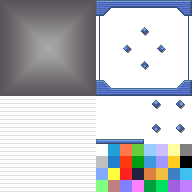
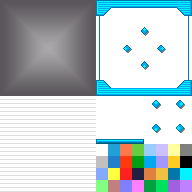
Added game main font. Restyled window theme. Closes #198

diff --git a/js/plugins.js b/js/plugins.js
@@ -8,7 +8,7 @@ var $plugins =
 {"name":"YEP_ClassChangeCore","status":false,"description":"v1.13 This plugin creates a system where your player\ncan change classes through the main menu.","parameters":{"---General---":"","Class Command":"Class","Auto Add Menu":"true","Show Command":"true","Enable Command":"true","Auto Place Command":"true","Default Icon":"78","Maintain Levels":"false","Unlocked Classes":"","---Command Window---":"","Class Change Command":"Class","Show Class Change":"true","Enable Class Change":"true","Show Skill Learn":"true","Finish Command":"Finish","Text Alignment":"center","---Window Settings---":"","Current Class Color":"17","Class Level Format":"LV%1","Class Level Font Size":"20"}},
 {"name":"YEP_X_Subclass","status":false,"description":"v1.10 (Requires YEP_ClassChangeCore.js) Allow your actors\nto subclass into a secondary class!","parameters":{"---Class Menu---":"","Subclass Command":"Subclass","Show Command":"true","Enable Command":"true","Name Format":"%1/%2","Subclass Color":"5","---Parameters---":"","MaxHP":"0.10","MaxMP":"0.10","ATK":"0.20","DEF":"0.20","MAT":"0.20","MDF":"0.20","AGI":"0.20","LUK":"0.20","EXP":"0.25","JP":"0.25","---Traits---":"","Skill Types":"true","Added Skills":"true","Param Rates":"true","X-Param Values":"false","S-Param Rates":"false","Element Rates":"false","Debuff Rates":"false","State Rates":"false","State Resist":"false","Attack Element":"false","Attack State":"false","Weapons":"false","Armors":"false"}},
 {"name":"YEP_ExtraParamFormula","status":true,"description":"v1.04 Control the formulas of the extra parameters for\nHIT, EVA, CRI, CEV, MEV, MRF, CNT, HRG, MRG, and TRG.","parameters":{"HIT Formula":"(base + plus) * rate + flat","EVA Formula":"(base + plus) * rate + flat","CRI Formula":"(base + plus) * rate + flat","CEV Formula":"(base + plus) * rate + flat","MEV Formula":"(base + plus) * rate + flat","MRF Formula":"(base + plus) * rate + flat","CNT Formula":"(base + plus) * rate + flat","HRG Formula":"(base + plus) * rate + flat","MRG Formula":"(base + plus) * rate + flat","TRG Formula":"(base + plus) * rate + flat"}},
-{"name":"YEP_LoadCustomFonts","status":true,"description":"v1.00 Load custom fonts from the /fonts/ folder. This will\nallow you to use custom fonts without installing them.","parameters":{"Font Filenames":"cc-wild-words.ttf, ds-pixel-cyr.ttf","Font Families":"CC Wild Words, DS Pixel Cyr"}},
+{"name":"YEP_LoadCustomFonts","status":true,"description":"v1.01 Load custom fonts from the /fonts/ folder. This will\nallow you to use custom fonts without installing them.","parameters":{"Font Filenames":"cc-wild-words.ttf, ds-pixel-cyr.ttf","Font Families":"CC Wild Words, DS Pixel Cyr"}},
 {"name":"YEP_MainMenuManager","status":true,"description":"v1.03 This plugin allows you to manage the various aspects\nof your main menu.","parameters":{"---General---":"","Hide Actor Window":"true","Hide Gold Window":"true","Blurry Background":"true","---Command---":"","Command Alignment":"left","Command Position":"left","Command Columns":"1","Command Rows":"Math.min(10, Math.ceil(this.maxItems() / this.maxCols()))","Command Width":"240","---Menu Items---":"","---Menu 1---":"","Menu 1 Name":"","Menu 1 Symbol":"","Menu 1 Show":"","Menu 1 Enabled":"","Menu 1 Ext":"","Menu 1 Main Bind":"","Menu 1 Actor Bind":"","---Menu 2---":"","Menu 2 Name":"","Menu 2 Symbol":"","Menu 2 Show":"","Menu 2 Enabled":"","Menu 2 Ext":"","Menu 2 Main Bind":"","Menu 2 Actor Bind":"","---Menu 3---":"","Menu 3 Name":"","Menu 3 Symbol":"","Menu 3 Show":"","Menu 3 Enabled":"","Menu 3 Ext":"","Menu 3 Main Bind":"","Menu 3 Actor Bind":"","---Menu 4---":"","Menu 4 Name":"","Menu 4 Symbol":"","Menu 4 Show":"","Menu 4 Enabled":"","Menu 4 Ext":"","Menu 4 Main Bind":"","Menu 4 Actor Bind":"","---Menu 5---":"","Menu 5 Name":"","Menu 5 Symbol":"","Menu 5 Show":"","Menu 5 Enabled":"","Menu 5 Ext":"","Menu 5 Main Bind":"","Menu 5 Actor Bind":"","---Menu 6---":"","Menu 6 Name":"","Menu 6 Symbol":"","Menu 6 Show":"","Menu 6 Enabled":"","Menu 6 Ext":"","Menu 6 Main Bind":"","Menu 6 Actor Bind":"","---Menu 7---":"","Menu 7 Name":"","Menu 7 Symbol":"","Menu 7 Show":"","Menu 7 Enabled":"","Menu 7 Ext":"","Menu 7 Main Bind":"","Menu 7 Actor Bind":"","---Menu 8---":"","Menu 8 Name":"","Menu 8 Symbol":"","Menu 8 Show":"","Menu 8 Enabled":"","Menu 8 Ext":"","Menu 8 Main Bind":"","Menu 8 Actor Bind":"","---Menu 9---":"","Menu 9 Name":"","Menu 9 Symbol":"","Menu 9 Show":"","Menu 9 Enabled":"","Menu 9 Ext":"","Menu 9 Main Bind":"","Menu 9 Actor Bind":"","---Menu 10---":"","Menu 10 Name":"TextManager.item","Menu 10 Symbol":"item","Menu 10 Show":"this.needsCommand('item')","Menu 10 Enabled":"this.areMainCommandsEnabled()","Menu 10 Ext":"","Menu 10 Main Bind":"this.commandItem.bind(this)","Menu 10 Actor Bind":"","---Menu 11---":"","Menu 11 Name":"","Menu 11 Symbol":"","Menu 11 Show":"","Menu 11 Enabled":"","Menu 11 Ext":"","Menu 11 Main Bind":"","Menu 11 Actor Bind":"","---Menu 12---":"","Menu 12 Name":"","Menu 12 Symbol":"","Menu 12 Show":"","Menu 12 Enabled":"","Menu 12 Ext":"","Menu 12 Main Bind":"","Menu 12 Actor Bind":"","---Menu 13---":"","Menu 13 Name":"","Menu 13 Symbol":"","Menu 13 Show":"","Menu 13 Enabled":"","Menu 13 Ext":"","Menu 13 Main Bind":"","Menu 13 Actor Bind":"","---Menu 14---":"","Menu 14 Name":"","Menu 14 Symbol":"","Menu 14 Show":"","Menu 14 Enabled":"","Menu 14 Ext":"","Menu 14 Main Bind":"","Menu 14 Actor Bind":"","---Menu 15---":"","Menu 15 Name":"TextManager.skill","Menu 15 Symbol":"skill","Menu 15 Show":"this.needsCommand('skill')","Menu 15 Enabled":"this.areMainCommandsEnabled()","Menu 15 Ext":"","Menu 15 Main Bind":"this.commandPersonal.bind(this)","Menu 15 Actor Bind":"SceneManager.push(Scene_Skill)","---Menu 16---":"","Menu 16 Name":"","Menu 16 Symbol":"","Menu 16 Show":"","Menu 16 Enabled":"","Menu 16 Ext":"","Menu 16 Main Bind":"","Menu 16 Actor Bind":"","---Menu 17---":"","Menu 17 Name":"","Menu 17 Symbol":"","Menu 17 Show":"","Menu 17 Enabled":"","Menu 17 Ext":"","Menu 17 Main Bind":"","Menu 17 Actor Bind":"","---Menu 18---":"","Menu 18 Name":"","Menu 18 Symbol":"","Menu 18 Show":"","Menu 18 Enabled":"","Menu 18 Ext":"","Menu 18 Main Bind":"","Menu 18 Actor Bind":"","---Menu 19---":"","Menu 19 Name":"","Menu 19 Symbol":"","Menu 19 Show":"","Menu 19 Enabled":"","Menu 19 Ext":"","Menu 19 Main Bind":"","Menu 19 Actor Bind":"","---Menu 20---":"","Menu 20 Name":"","Menu 20 Symbol":"","Menu 20 Show":"","Menu 20 Enabled":"","Menu 20 Ext":"","Menu 20 Main Bind":"","Menu 20 Actor Bind":"","---Menu 21---":"","Menu 21 Name":"","Menu 21 Symbol":"","Menu 21 Show":"","Menu 21 Enabled":"","Menu 21 Ext":"","Menu 21 Main Bind":"","Menu 21 Actor Bind":"","---Menu 22---":"","Menu 22 Name":"","Menu 22 Symbol":"","Menu 22 Show":"","Menu 22 Enabled":"","Menu 22 Ext":"","Menu 22 Main Bind":"","Menu 22 Actor Bind":"","---Menu 23---":"","Menu 23 Name":"","Menu 23 Symbol":"","Menu 23 Show":"","Menu 23 Enabled":"","Menu 23 Ext":"","Menu 23 Main Bind":"","Menu 23 Actor Bind":"","---Menu 24---":"","Menu 24 Name":"","Menu 24 Symbol":"","Menu 24 Show":"","Menu 24 Enabled":"","Menu 24 Ext":"","Menu 24 Main Bind":"","Menu 24 Actor Bind":"","---Menu 25---":"","Menu 25 Name":"Yanfly.Param.CCCCmdName","Menu 25 Symbol":"class","Menu 25 Show":"Imported.YEP_ClassChangeCore && $gameSystem.isShowClass()","Menu 25 Enabled":"$gameSystem.isEnableClass() && this.areMainCommandsEnabled()","Menu 25 Ext":"","Menu 25 Main Bind":"this.commandPersonal.bind(this)","Menu 25 Actor Bind":"SceneManager.push(Scene_Class)","---Menu 26---":"","Menu 26 Name":"","Menu 26 Symbol":"","Menu 26 Show":"","Menu 26 Enabled":"","Menu 26 Ext":"","Menu 26 Main Bind":"","Menu 26 Actor Bind":"","---Menu 27---":"","Menu 27 Name":"","Menu 27 Symbol":"","Menu 27 Show":"","Menu 27 Enabled":"","Menu 27 Ext":"","Menu 27 Main Bind":"","Menu 27 Actor Bind":"","---Menu 28---":"","Menu 28 Name":"","Menu 28 Symbol":"","Menu 28 Show":"","Menu 28 Enabled":"","Menu 28 Ext":"","Menu 28 Main Bind":"","Menu 28 Actor Bind":"","---Menu 29---":"","Menu 29 Name":"","Menu 29 Symbol":"","Menu 29 Show":"","Menu 29 Enabled":"","Menu 29 Ext":"","Menu 29 Main Bind":"","Menu 29 Actor Bind":"","---Menu 30---":"","Menu 30 Name":"","Menu 30 Symbol":"","Menu 30 Show":"","Menu 30 Enabled":"","Menu 30 Ext":"","Menu 30 Main Bind":"","Menu 30 Actor Bind":"","---Menu 31---":"","Menu 31 Name":"","Menu 31 Symbol":"","Menu 31 Show":"","Menu 31 Enabled":"","Menu 31 Ext":"","Menu 31 Main Bind":"","Menu 31 Actor Bind":"","---Menu 32---":"","Menu 32 Name":"","Menu 32 Symbol":"","Menu 32 Show":"","Menu 32 Enabled":"","Menu 32 Ext":"","Menu 32 Main Bind":"","Menu 32 Actor Bind":"","---Menu 33---":"","Menu 33 Name":"","Menu 33 Symbol":"","Menu 33 Show":"","Menu 33 Enabled":"","Menu 33 Ext":"","Menu 33 Main Bind":"","Menu 33 Actor Bind":"","---Menu 34---":"","Menu 34 Name":"","Menu 34 Symbol":"","Menu 34 Show":"","Menu 34 Enabled":"","Menu 34 Ext":"","Menu 34 Main Bind":"","Menu 34 Actor Bind":"","---Menu 35---":"","Menu 35 Name":"","Menu 35 Symbol":"","Menu 35 Show":"","Menu 35 Enabled":"","Menu 35 Ext":"","Menu 35 Main Bind":"","Menu 35 Actor Bind":"","---Menu 36---":"","Menu 36 Name":"","Menu 36 Symbol":"","Menu 36 Show":"","Menu 36 Enabled":"","Menu 36 Ext":"","Menu 36 Main Bind":"","Menu 36 Actor Bind":"","---Menu 37---":"","Menu 37 Name":"","Menu 37 Symbol":"","Menu 37 Show":"","Menu 37 Enabled":"","Menu 37 Ext":"","Menu 37 Main Bind":"","Menu 37 Actor Bind":"","---Menu 38---":"","Menu 38 Name":"","Menu 38 Symbol":"","Menu 38 Show":"","Menu 38 Enabled":"","Menu 38 Ext":"","Menu 38 Main Bind":"","Menu 38 Actor Bind":"","---Menu 39---":"","Menu 39 Name":"","Menu 39 Symbol":"","Menu 39 Show":"","Menu 39 Enabled":"","Menu 39 Ext":"","Menu 39 Main Bind":"","Menu 39 Actor Bind":"","---Menu 40---":"","Menu 40 Name":"","Menu 40 Symbol":"","Menu 40 Show":"","Menu 40 Enabled":"","Menu 40 Ext":"","Menu 40 Main Bind":"","Menu 40 Actor Bind":"","---Menu 41---":"","Menu 41 Name":"","Menu 41 Symbol":"","Menu 41 Show":"","Menu 41 Enabled":"","Menu 41 Ext":"","Menu 41 Main Bind":"","Menu 41 Actor Bind":"","---Menu 42---":"","Menu 42 Name":"","Menu 42 Symbol":"","Menu 42 Show":"","Menu 42 Enabled":"","Menu 42 Ext":"","Menu 42 Main Bind":"","Menu 42 Actor Bind":"","---Menu 43---":"","Menu 43 Name":"","Menu 43 Symbol":"","Menu 43 Show":"","Menu 43 Enabled":"","Menu 43 Ext":"","Menu 43 Main Bind":"","Menu 43 Actor Bind":"","---Menu 44---":"","Menu 44 Name":"","Menu 44 Symbol":"","Menu 44 Show":"","Menu 44 Enabled":"","Menu 44 Ext":"","Menu 44 Main Bind":"","Menu 44 Actor Bind":"","---Menu 45---":"","Menu 45 Name":"","Menu 45 Symbol":"","Menu 45 Show":"","Menu 45 Enabled":"","Menu 45 Ext":"","Menu 45 Main Bind":"","Menu 45 Actor Bind":"","---Menu 46---":"","Menu 46 Name":"","Menu 46 Symbol":"","Menu 46 Show":"","Menu 46 Enabled":"","Menu 46 Ext":"","Menu 46 Main Bind":"","Menu 46 Actor Bind":"","---Menu 47---":"","Menu 47 Name":"","Menu 47 Symbol":"","Menu 47 Show":"","Menu 47 Enabled":"","Menu 47 Ext":"","Menu 47 Main Bind":"","Menu 47 Actor Bind":"","---Menu 48---":"","Menu 48 Name":"","Menu 48 Symbol":"","Menu 48 Show":"","Menu 48 Enabled":"","Menu 48 Ext":"","Menu 48 Main Bind":"","Menu 48 Actor Bind":"","---Menu 49---":"","Menu 49 Name":"","Menu 49 Symbol":"","Menu 49 Show":"","Menu 49 Enabled":"","Menu 49 Ext":"","Menu 49 Main Bind":"","Menu 49 Actor Bind":"","---Menu 50---":"","Menu 50 Name":"TextManager.status","Menu 50 Symbol":"status","Menu 50 Show":"this.needsCommand('status')","Menu 50 Enabled":"this.areMainCommandsEnabled()","Menu 50 Ext":"","Menu 50 Main Bind":"this.commandPersonal.bind(this)","Menu 50 Actor Bind":"SceneManager.push(Scene_Status)","---Menu 51---":"","Menu 51 Name":"","Menu 51 Symbol":"","Menu 51 Show":"","Menu 51 Enabled":"","Menu 51 Ext":"","Menu 51 Main Bind":"","Menu 51 Actor Bind":"","---Menu 52---":"","Menu 52 Name":"","Menu 52 Symbol":"","Menu 52 Show":"","Menu 52 Enabled":"","Menu 52 Ext":"","Menu 52 Main Bind":"","Menu 52 Actor Bind":"","---Menu 53---":"","Menu 53 Name":"","Menu 53 Symbol":"","Menu 53 Show":"","Menu 53 Enabled":"","Menu 53 Ext":"","Menu 53 Main Bind":"","Menu 53 Actor Bind":"","---Menu 54---":"","Menu 54 Name":"","Menu 54 Symbol":"","Menu 54 Show":"","Menu 54 Enabled":"","Menu 54 Ext":"","Menu 54 Main Bind":"","Menu 54 Actor Bind":"","---Menu 55---":"","Menu 55 Name":"","Menu 55 Symbol":"","Menu 55 Show":"","Menu 55 Enabled":"","Menu 55 Ext":"","Menu 55 Main Bind":"","Menu 55 Actor Bind":"","---Menu 56---":"","Menu 56 Name":"","Menu 56 Symbol":"","Menu 56 Show":"","Menu 56 Enabled":"","Menu 56 Ext":"","Menu 56 Main Bind":"","Menu 56 Actor Bind":"","---Menu 57---":"","Menu 57 Name":"","Menu 57 Symbol":"","Menu 57 Show":"","Menu 57 Enabled":"","Menu 57 Ext":"","Menu 57 Main Bind":"","Menu 57 Actor Bind":"","---Menu 58---":"","Menu 58 Name":"","Menu 58 Symbol":"","Menu 58 Show":"","Menu 58 Enabled":"","Menu 58 Ext":"","Menu 58 Main Bind":"","Menu 58 Actor Bind":"","---Menu 59---":"","Menu 59 Name":"","Menu 59 Symbol":"","Menu 59 Show":"","Menu 59 Enabled":"","Menu 59 Ext":"","Menu 59 Main Bind":"","Menu 59 Actor Bind":"","---Menu 60---":"","Menu 60 Name":"","Menu 60 Symbol":"","Menu 60 Show":"","Menu 60 Enabled":"","Menu 60 Ext":"","Menu 60 Main Bind":"","Menu 60 Actor Bind":"","---Menu 61---":"","Menu 61 Name":"","Menu 61 Symbol":"","Menu 61 Show":"","Menu 61 Enabled":"","Menu 61 Ext":"","Menu 61 Main Bind":"","Menu 61 Actor Bind":"","---Menu 62---":"","Menu 62 Name":"","Menu 62 Symbol":"","Menu 62 Show":"","Menu 62 Enabled":"","Menu 62 Ext":"","Menu 62 Main Bind":"","Menu 62 Actor Bind":"","---Menu 63---":"","Menu 63 Name":"","Menu 63 Symbol":"","Menu 63 Show":"","Menu 63 Enabled":"","Menu 63 Ext":"","Menu 63 Main Bind":"","Menu 63 Actor Bind":"","---Menu 64---":"","Menu 64 Name":"","Menu 64 Symbol":"","Menu 64 Show":"","Menu 64 Enabled":"","Menu 64 Ext":"","Menu 64 Main Bind":"","Menu 64 Actor Bind":"","---Menu 65---":"","Menu 65 Name":"","Menu 65 Symbol":"","Menu 65 Show":"","Menu 65 Enabled":"","Menu 65 Ext":"","Menu 65 Main Bind":"","Menu 65 Actor Bind":"","---Menu 66---":"","Menu 66 Name":"","Menu 66 Symbol":"","Menu 66 Show":"","Menu 66 Enabled":"","Menu 66 Ext":"","Menu 66 Main Bind":"","Menu 66 Actor Bind":"","---Menu 67---":"","Menu 67 Name":"","Menu 67 Symbol":"","Menu 67 Show":"","Menu 67 Enabled":"","Menu 67 Ext":"","Menu 67 Main Bind":"","Menu 67 Actor Bind":"","---Menu 68---":"","Menu 68 Name":"","Menu 68 Symbol":"","Menu 68 Show":"","Menu 68 Enabled":"","Menu 68 Ext":"","Menu 68 Main Bind":"","Menu 68 Actor Bind":"","---Menu 69---":"","Menu 69 Name":"","Menu 69 Symbol":"","Menu 69 Show":"","Menu 69 Enabled":"","Menu 69 Ext":"","Menu 69 Main Bind":"","Menu 69 Actor Bind":"","---Menu 70---":"","Menu 70 Name":"'Music'","Menu 70 Symbol":"musicMenu","Menu 70 Show":"false","Menu 70 Enabled":"false","Menu 70 Ext":"","Menu 70 Main Bind":"this.commandMusicMenu.bind(this)","Menu 70 Actor Bind":"","---Menu 71---":"","Menu 71 Name":"","Menu 71 Symbol":"","Menu 71 Show":"","Menu 71 Enabled":"","Menu 71 Ext":"","Menu 71 Main Bind":"","Menu 71 Actor Bind":"","---Menu 72---":"","Menu 72 Name":"","Menu 72 Symbol":"","Menu 72 Show":"","Menu 72 Enabled":"","Menu 72 Ext":"","Menu 72 Main Bind":"","Menu 72 Actor Bind":"","---Menu 73---":"","Menu 73 Name":"","Menu 73 Symbol":"","Menu 73 Show":"","Menu 73 Enabled":"","Menu 73 Ext":"","Menu 73 Main Bind":"","Menu 73 Actor Bind":"","---Menu 74---":"","Menu 74 Name":"","Menu 74 Symbol":"","Menu 74 Show":"","Menu 74 Enabled":"","Menu 74 Ext":"","Menu 74 Main Bind":"","Menu 74 Actor Bind":"","---Menu 75---":"","Menu 75 Name":"","Menu 75 Symbol":"","Menu 75 Show":"","Menu 75 Enabled":"","Menu 75 Ext":"","Menu 75 Main Bind":"","Menu 75 Actor Bind":"","---Menu 76---":"","Menu 76 Name":"","Menu 76 Symbol":"","Menu 76 Show":"","Menu 76 Enabled":"","Menu 76 Ext":"","Menu 76 Main Bind":"","Menu 76 Actor Bind":"","---Menu 77---":"","Menu 77 Name":"","Menu 77 Symbol":"","Menu 77 Show":"","Menu 77 Enabled":"","Menu 77 Ext":"","Menu 77 Main Bind":"","Menu 77 Actor Bind":"","---Menu 78---":"","Menu 78 Name":"","Menu 78 Symbol":"","Menu 78 Show":"","Menu 78 Enabled":"","Menu 78 Ext":"","Menu 78 Main Bind":"","Menu 78 Actor Bind":"","---Menu 79---":"","Menu 79 Name":"","Menu 79 Symbol":"","Menu 79 Show":"","Menu 79 Enabled":"","Menu 79 Ext":"","Menu 79 Main Bind":"","Menu 79 Actor Bind":"","---Menu 80---":"","Menu 80 Name":"","Menu 80 Symbol":"","Menu 80 Show":"","Menu 80 Enabled":"","Menu 80 Ext":"","Menu 80 Main Bind":"","Menu 80 Actor Bind":"","---Menu 81---":"","Menu 81 Name":"'Common Event 1'","Menu 81 Symbol":"common event","Menu 81 Show":"false","Menu 81 Enabled":"true","Menu 81 Ext":"1","Menu 81 Main Bind":"this.callCommonEvent.bind(this)","Menu 81 Actor Bind":"","---Menu 82---":"","Menu 82 Name":"'Common Event 2'","Menu 82 Symbol":"common event","Menu 82 Show":"false","Menu 82 Enabled":"true","Menu 82 Ext":"2","Menu 82 Main Bind":"this.callCommonEvent.bind(this)","Menu 82 Actor Bind":"","---Menu 83---":"","Menu 83 Name":"'Common Event 3'","Menu 83 Symbol":"common event","Menu 83 Show":"false","Menu 83 Enabled":"true","Menu 83 Ext":"3","Menu 83 Main Bind":"this.callCommonEvent.bind(this)","Menu 83 Actor Bind":"","---Menu 84---":"","Menu 84 Name":"","Menu 84 Symbol":"","Menu 84 Show":"","Menu 84 Enabled":"","Menu 84 Ext":"","Menu 84 Main Bind":"","Menu 84 Actor Bind":"","---Menu 85---":"","Menu 85 Name":"","Menu 85 Symbol":"","Menu 85 Show":"","Menu 85 Enabled":"","Menu 85 Ext":"","Menu 85 Main Bind":"","Menu 85 Actor Bind":"","---Menu 86---":"","Menu 86 Name":"","Menu 86 Symbol":"","Menu 86 Show":"","Menu 86 Enabled":"","Menu 86 Ext":"","Menu 86 Main Bind":"","Menu 86 Actor Bind":"","---Menu 87---":"","Menu 87 Name":"","Menu 87 Symbol":"","Menu 87 Show":"","Menu 87 Enabled":"","Menu 87 Ext":"","Menu 87 Main Bind":"","Menu 87 Actor Bind":"","---Menu 88---":"","Menu 88 Name":"","Menu 88 Symbol":"","Menu 88 Show":"","Menu 88 Enabled":"","Menu 88 Ext":"","Menu 88 Main Bind":"","Menu 88 Actor Bind":"","---Menu 89---":"","Menu 89 Name":"","Menu 89 Symbol":"","Menu 89 Show":"","Menu 89 Enabled":"","Menu 89 Ext":"","Menu 89 Main Bind":"","Menu 89 Actor Bind":"","---Menu 90---":"","Menu 90 Name":"TextManager.options","Menu 90 Symbol":"options","Menu 90 Show":"this.needsCommand('options')","Menu 90 Enabled":"this.isOptionsEnabled()","Menu 90 Ext":"","Menu 90 Main Bind":"this.commandOptions.bind(this)","Menu 90 Actor Bind":"","---Menu 91---":"","Menu 91 Name":"","Menu 91 Symbol":"","Menu 91 Show":"","Menu 91 Enabled":"","Menu 91 Ext":"","Menu 91 Main Bind":"","Menu 91 Actor Bind":"","---Menu 92---":"","Menu 92 Name":"","Menu 92 Symbol":"","Menu 92 Show":"","Menu 92 Enabled":"","Menu 92 Ext":"","Menu 92 Main Bind":"","Menu 92 Actor Bind":"","---Menu 93---":"","Menu 93 Name":"","Menu 93 Symbol":"","Menu 93 Show":"","Menu 93 Enabled":"","Menu 93 Ext":"","Menu 93 Main Bind":"","Menu 93 Actor Bind":"","---Menu 94---":"","Menu 94 Name":"","Menu 94 Symbol":"","Menu 94 Show":"","Menu 94 Enabled":"","Menu 94 Ext":"","Menu 94 Main Bind":"","Menu 94 Actor Bind":"","---Menu 95---":"","Menu 95 Name":"TextManager.save","Menu 95 Symbol":"save","Menu 95 Show":"this.needsCommand('save')","Menu 95 Enabled":"this.isSaveEnabled()","Menu 95 Ext":"","Menu 95 Main Bind":"this.commandSave.bind(this)","Menu 95 Actor Bind":"","---Menu 96---":"","Menu 96 Name":"","Menu 96 Symbol":"","Menu 96 Show":"","Menu 96 Enabled":"","Menu 96 Ext":"","Menu 96 Main Bind":"","Menu 96 Actor Bind":"","---Menu 97---":"","Menu 97 Name":"","Menu 97 Symbol":"","Menu 97 Show":"","Menu 97 Enabled":"","Menu 97 Ext":"","Menu 97 Main Bind":"","Menu 97 Actor Bind":"","---Menu 98---":"","Menu 98 Name":"","Menu 98 Symbol":"","Menu 98 Show":"","Menu 98 Enabled":"","Menu 98 Ext":"","Menu 98 Main Bind":"","Menu 98 Actor Bind":"","---Menu 99---":"","Menu 99 Name":"'Debug'","Menu 99 Symbol":"debug","Menu 99 Show":"$gameTemp.isPlaytest()","Menu 99 Enabled":"true","Menu 99 Ext":"","Menu 99 Main Bind":"this.commandDebug.bind(this)","Menu 99 Actor Bind":"","---Menu 100---":"","Menu 100 Name":"TextManager.gameEnd","Menu 100 Symbol":"gameEnd","Menu 100 Show":"false","Menu 100 Enabled":"this.isGameEndEnabled()","Menu 100 Ext":"","Menu 100 Main Bind":"this.commandGameEnd.bind(this)","Menu 100 Actor Bind":""}},
 {"name":"YEP_MessageCore","status":true,"description":"v1.19 Adds more features to the Message Window to customized\nthe way your messages appear and functions.","parameters":{"---General---":"","Default Rows":"4","Default Width":"Graphics.boxWidth","Face Indent":"Window_Base._faceWidth + 24","Fast Forward Key":"pagedown","Enable Fast Forward":"true","Word Wrapping":"false","Description Wrap":"false","Word Wrap Space":"true","Tight Wrap":"false","---Font---":"","Font Name":"Crackman, Verdana, GameFont","Font Name CH":"SimHei, Heiti TC, sans-serif","Font Name KR":"Dotum, AppleGothic, sans-serif","Font Size":"28","Font Size Change":"12","Font Changed Max":"96","Font Changed Min":"12","Font Outline":"4","Maintain Font":"false","---Name Box---":"","Name Box Buffer X":"-28","Name Box Buffer Y":"0","Name Box Padding":"this.standardPadding() * 4","Name Box Color":"0","Name Box Clear":"false","Name Box Added Text":"\\c[6]","Name Box Auto Close":"true"}},
 {"name":"YEP_X_ExtMesPack1","status":false,"description":"v1.10a (Requires YEP_MessageCore.js) Letter Sounds, NameBox\nBackground Types, Choice Control, and more!","parameters":{"---Letter Sounds---":"","Enable Sound":"false","Sound Name":"Cursor2","Sound Volume":"50","Sound Pitch":"100","Pitch Variance":"10","Sound Pan":"0","Pan Variance":"10","Sound Interval":"2","Reset Sounds":"false","---Message Anchor---":"","Default X":"center","Default Y":"bottom","Auto Row Full Face":"false","---Message Choices---":"","Max Rows":"6","Choice 1 Show Switch":"0","Choice 2 Show Switch":"0","Choice 3 Show Switch":"0","Choice 4 Show Switch":"0","Choice 5 Show Switch":"0","Choice 6 Show Switch":"0","Choice 7 Show Switch":"0","Choice 8 Show Switch":"0","Choice 9 Show Switch":"0","Choice 10 Show Switch":"0","Choice 11 Show Switch":"0","Choice 12 Show Switch":"0","Choice 13 Show Switch":"0","Choice 14 Show Switch":"0","Choice 15 Show Switch":"0","Choice 16 Show Switch":"0","Choice 17 Show Switch":"0","Choice 18 Show Switch":"0","Choice 19 Show Switch":"0","Choice 20 Show Switch":"0","Choice 1 On Switch":"0","Choice 2 On Switch":"0","Choice 3 On Switch":"0","Choice 4 On Switch":"0","Choice 5 On Switch":"0","Choice 6 On Switch":"0","Choice 7 On Switch":"0","Choice 8 On Switch":"0","Choice 9 On Switch":"0","Choice 10 On Switch":"0","Choice 11 On Switch":"0","Choice 12 On Switch":"0","Choice 13 On Switch":"0","Choice 14 On Switch":"0","Choice 15 On Switch":"0","Choice 16 On Switch":"0","Choice 17 On Switch":"0","Choice 18 On Switch":"0","Choice 19 On Switch":"0","Choice 20 On Switch":"0"}},

diff --git a/fonts/gamefont.css b/fonts/gamefont.css
@@ -1,6 +1,6 @@
 @font-face {
     font-family: GameFont;
-    src: url("mplus-1m-regular.ttf");
+    src: url("aclonica.ttf");
 }
 
 .IIV::-webkit-media-controls-play-button,
